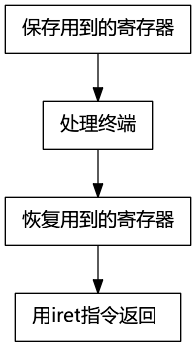
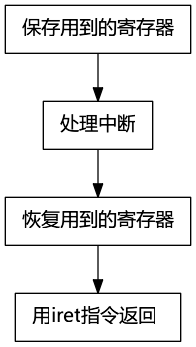
更正图片bug&调整12/readme结构&doing 13

Changed region(s): [[0.4898, 0.317, 0.7041, 0.4035]]

diff --git a/11/readme.md b/11/readme.md
@@ -14,7 +14,9 @@
 
 <!-- /code_chunk_output -->
 
+相关标志位：`zf`、`pf`、`sf`、`cf`、`of`、`df`
 
+相关指令：`adc`、`sbb`、`cmp`、`movesp`、`rep`、`cld`、`std`、`pushf`、`popf`
 
 
 # 标志寄存器
@@ -30,7 +32,7 @@
 
 |标志|功能|
 |:---:|:---|
-|`zf`零标志位|记录相关指令执行后，其结果是否为0<br>相关指令结果为0，`zf`=1<br>相关指令结果为1，`zf`=0<br>`add`、`sub`、`mul`、`div`、`inc`、`or`、`and`|
+|`zf`|零标志位<br>记录相关指令执行后，其结果是否为0<br>相关指令结果为0，`zf`=1<br>相关指令结果为1，`zf`=0<br>`add`、`sub`、`mul`、`div`、`inc`、`or`、`and`|
 |`pf`|奇偶标志位<br>记录相关指令执行后，其结果的所有bit位中1的个数是否为偶数<br>如果1的个数为偶数，`pf`=1|
 |`sf`|符号标志位<br>记录相关指令执行后，其结果是否为负<br>相关指令为负，`sf=1`<br>将数据当作有符号数来计算的时候，可以通过它来得到结果的正负<br>将数据当作无符号数来计算的时候，虽然会影响`sf`的值但此时，`sf`的值没意义|
 |`cf`|进位标志<br>记录了运算结果的最高有效位向更高有效位的进位值，或从更高位的借位值|
@@ -46,7 +48,7 @@
 |`sbb`|带借位减法指令<br>利用了`cf`位上记录的借位值<br>指令格式：`sbb obj1,obj2`<br>功能：`obj1=(obj1-obj2-cf)`<br>利用`obb`对任意大的数据进行减法运算|[例子2](#例子2)|
 |`cmp`|比较指令<br>相当减法指令，只是不保存结果<br>执行后，将对标志寄存器产生影响<br>其他指令通过识别这些被影响的标志寄存器得知比较结果<br>指令格式：`cmp obj1,obj2`<br>功能：计算`obj1-obj2`,并不保存结果，仅影响`flag`相关位<br>具体情况见下|`cmp ax,ax`<br>`zf=pf=1`<br>`sf=cf=of=0`|
 |`movsb`|执行`movsb`指令相当于将`ds:si`指向的内存单元中的字节送入`es:di`中，然后根据标志寄存器，将`si`和`di`递增或递减<br>`movsw`,传送一个字，`di`和`si`递增或递减2| |
-|`rep 指令`|根据`cx`的值，重复执行后面的串传送指令<br>`rep movsb`<br>`rep movsw`||
+|`rep`|根据`cx`的值，重复执行后面的串传送指令<br>`rep movsb`<br>`rep movsw`||
 |`cld`|将`df`置0||
 |`std`|将`df`置1||
 |`pushf`<br>`popf`|pushf将标志寄存器的值压栈<br>popf将栈中弹出数据送入标志寄存器<br>为直接访问标志寄存器提供了一种方法| |
